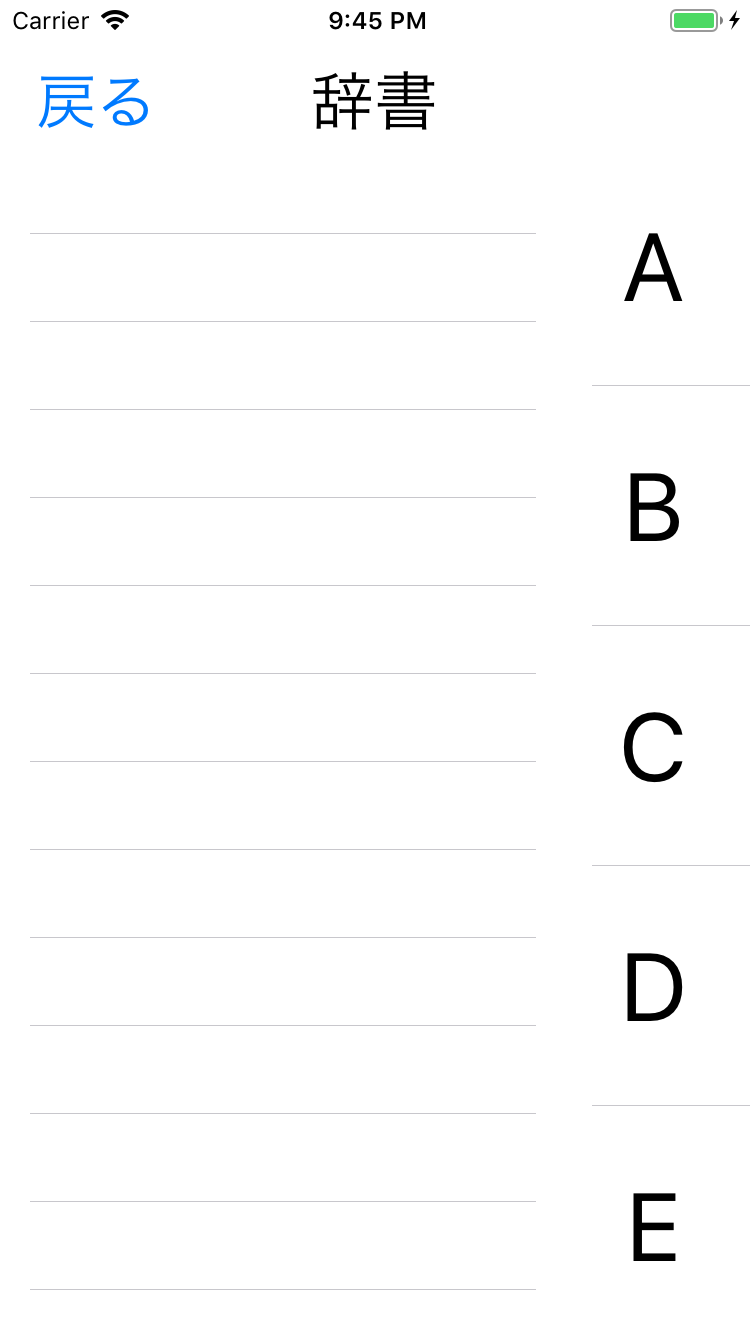
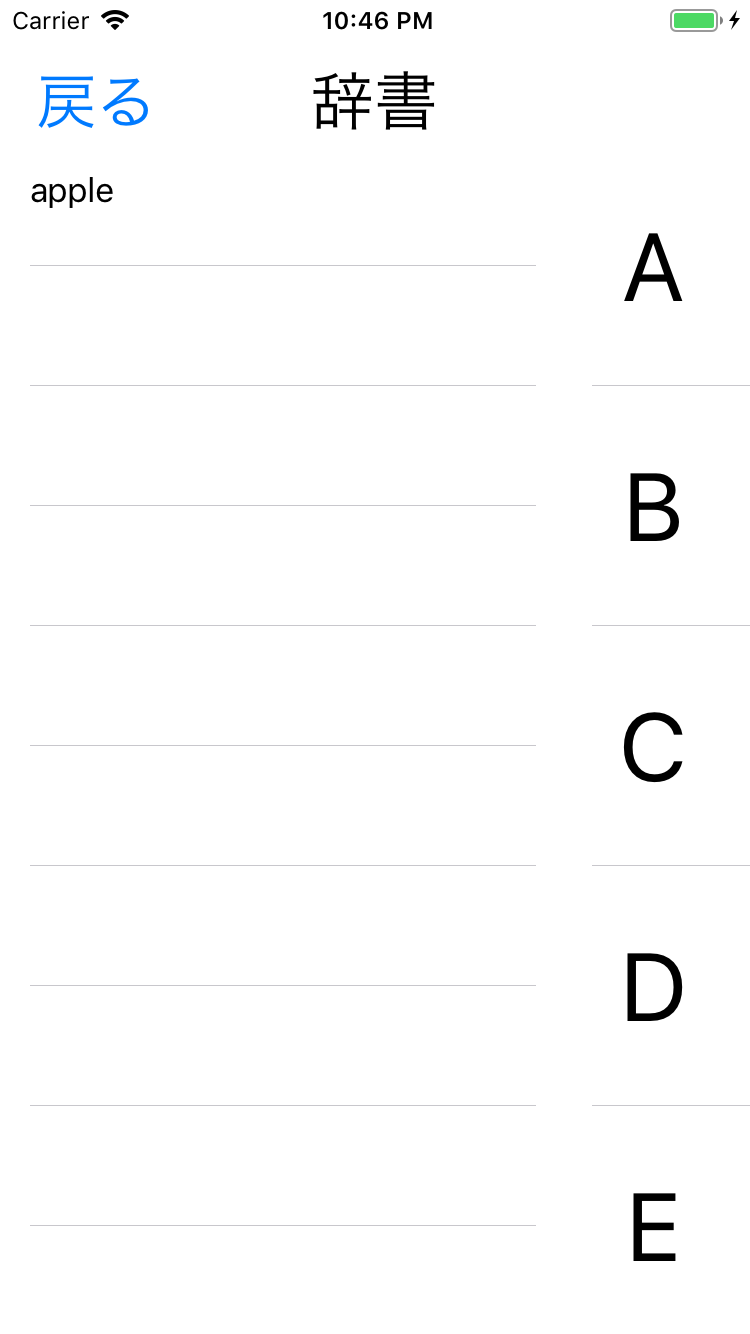
辞書画面から単語選択→単語設定画面への遷移、単語設定画面から戻るボタン押下後の分岐を実装

Changed region(s): [[0.4293, 0.0, 0.5827, 0.0307], [0.0307, 0.1229, 0.1533, 0.1537]]

diff --git a/EnglishWords/EnglishWords/ConfigureWordViewController.swift b/EnglishWords/EnglishWords/ConfigureWordViewController.swift
@@ -18,18 +18,25 @@ class ConfigureWordViewController: UIViewController, UITableViewDelegate, UITabl
     var wordnotebook: WordNoteBook?
     var worddatalist: [WordData] = []
     var wordnote: WordNote?
+    var selectedword: Word?
     
     override func viewDidLoad() {
         super.viewDidLoad()
         
-        let wordname = wordnote?.worddata?.word?.wordName
-        wordnamelabel.text = wordname
+        if(wordnote != nil){
+            let wordname = wordnote?.worddata?.word?.wordName
+            wordnamelabel.text = wordname
         
-        //選択したWordDataからデータベース内に保存してあるWordDataを全て取得
-        let realm: Realm = try! Realm()
-        let results = realm.objects(WordData.self).filter("word.wordName == %@",wordname!)
-        worddatalist = Array(results)
-        
+            //選択したWordDataからデータベース内に保存してあるWordDataを全て取得
+            let realm: Realm = try! Realm()
+            let results = realm.objects(WordData.self).filter("word.wordName == %@",wordname!)
+            worddatalist = Array(results)
+        }else if(selectedword != nil){
+            //選択したWordからデータベース内に保存してあるWordDataを全て取得
+            let realm: Realm = try! Realm()
+            let results = realm.objects(WordData.self).filter("word.wordName == %@",selectedword?.wordName)
+            worddatalist = Array(results)
+        }
         //tableのラベルを折り返す設定
         table.estimatedRowHeight=120
         table.rowHeight=UITableViewAutomaticDimension
@@ -64,15 +71,20 @@ class ConfigureWordViewController: UIViewController, UITableViewDelegate, UITabl
         return cell
     }
     
-    @IBAction func buttonTapped(sender : AnyObject) {
-        performSegue(withIdentifier: "returnConfigureWordViewController",sender: nil)
+    @IBAction func ButtonTouchDown(_ sender: Any) {
+        if(wordnote != nil){
+            performSegue(withIdentifier: "returnToConfigureWordNote",sender: nil)
+        }else if(selectedword != nil){
+            performSegue(withIdentifier: "returnToDictionary",sender: nil)
+        }
     }
-    
     // Segue 準備
     override func prepare(for segue: UIStoryboardSegue, sender: Any?) {
-        if (segue.identifier == "returnConfigureWordViewController") {
+        if (segue.identifier == "returnToConfigureWordNote") {
             let configureWordNoteVC: ConfigureWordNoteBookViewController = (segue.destination as? ConfigureWordNoteBookViewController)!
             configureWordNoteVC.wordnotebook = wordnotebook
+        }else if (segue.identifier == "returnToDictionary"){
+            let _: DictionaryViewController = (segue.destination as? DictionaryViewController)!
         }
     }
     

diff --git a/EnglishWords/EnglishWords/DictionaryViewController.swift b/EnglishWords/EnglishWords/DictionaryViewController.swift
@@ -16,6 +16,7 @@ class DictionaryViewController: UIViewController, UITableViewDelegate, UITableVi
     @IBOutlet var sidetable:UITableView!
     
     var wordlist: [Word] = []
+    var selectedWord: Word?
     
     let alphabet = ["A","B","C","D","E","F","G","H","I","J","K","L","M","N","O","P","Q","R","S","T","U","V","W","X","Y","Z"]
     
@@ -71,6 +72,24 @@ class DictionaryViewController: UIViewController, UITableViewDelegate, UITableVi
             label.text = alphabet[indexPath.row]
             
             return cell
+        }
+    }
+    
+    // Cell が選択された場合
+    func tableView(_ table: UITableView,didSelectRowAt indexPath: IndexPath) {
+        if table.tag == 0 {
+            //選択したセルの単語帳を記録
+            selectedWord = wordlist[indexPath.row]
+            // ConfigureWordViewController へ遷移するために Segue を呼び出す
+            performSegue(withIdentifier: "fromDictionarytoConfigureWord", sender: nil)
+        }
+    }
+    
+    // Segue 準備
+    override func prepare(for segue: UIStoryboardSegue, sender: Any!) {
+        if (segue.identifier == "fromDictionarytoConfigureWord") {
+            let cwVC: ConfigureWordViewController = (segue.destination as? ConfigureWordViewController)!
+            cwVC.selectedword = selectedWord
         }
     }
     
